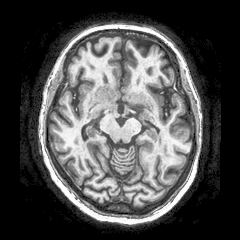
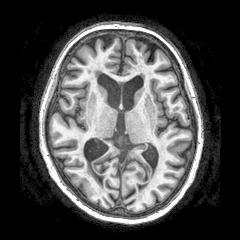
Last updata

diff --git a/code/PlottingFeatures.py b/code/PlottingFeatures.py
@@ -1,0 +1,103 @@
+# -*- coding: utf-8 -*-
+"""
+Created on Sun Oct 13 16:59:32 2019
+
+@author: 20171880
+"""
+import numpy as np
+import matplotlib.pyplot as plt
+import matplotlib.cm as cm
+from scipy import ndimage, stats
+import cv2
+import segmentation as seg
+
+image_number = 1; 
+slice_number = 1
+   # extracts features for [image_number]_[slice_number]_t1.tif and [image_number]_[slice_number]_t2.tif
+# Input:
+# image_number - Which subject (scalar)
+# slice_number - Which slice (scalar)
+# Output:
+# X           - N x k dataset, where N is the number of pixels and k is the total number of features
+# features    - k x 1 cell array describing each of the k features
+
+base_dir = '../data/dataset_brains/'
+
+t1 = plt.imread(base_dir + str(image_number) + '_' + str(slice_number) + '_t1.tif')
+
+n = t1.shape[0]
+features = ()
+
+t1f = t1.flatten().T.astype(float)
+t1f = t1f.reshape(-1, 1)
+
+t1_blurred_1 = ndimage.gaussian_filter(t1, sigma=3)
+t1_1 = t1_blurred_1.flatten().T
+t1_1 = t1_1.reshape(-1, 1)
+
+t1_blurred_2 = ndimage.gaussian_filter(t1, sigma=8)
+t1_2 = t1_blurred_2.flatten().T
+t1_2 = t1_2.reshape(-1, 1)
+
+#edges
+t1_LaPlacian = cv2.Laplacian(t1, cv2.CV_64F)
+t1_lapl = t1_LaPlacian.flatten().T
+t1_lapl = t1_lapl.reshape(-1,1)
+
+#Coordinate feature
+t1_coord,_ = seg.extract_coordinate_feature(t1)
+
+
+#use to remove noise from images, while preserving edges
+median = cv2.medianBlur(t1,5)
+t1_median = median.flatten().flatten().T
+t1_median = t1_median.reshape(-1,1)
+
+#opening
+kernel1 = np.array([[0,1,0], [1, 1, 1], [0,1,0]], np.uint8)#np.ones((3,3), np.uint8)
+opening = cv2.morphologyEx(t1, cv2.MORPH_OPEN, kernel1)
+t1_opening = opening.flatten().flatten().T
+t1_opening = t1_opening.reshape(-1,1)
+
+#closing
+kernel2 =  np.ones((4,4), np.uint8)
+closing = cv2.morphologyEx(t1, cv2.MORPH_CLOSE, kernel2)
+t1_closing = closing.flatten().flatten().T
+t1_closing = closing.reshape(-1,1)
+
+#morphological gradient
+kernel3 =   np.ones((3,3), np.uint8)
+gradient = cv2.morphologyEx(t1, cv2.MORPH_GRADIENT, kernel3)
+t1_grad = gradient.flatten().flatten().T
+t1_grad = t1_grad.reshape(-1,1)
+
+t1_cv = cv2.imread(base_dir + str(image_number) + '_' + str(slice_number) + '_t1.tif', 0)
+equ = cv2.equalizeHist(t1_cv)
+cv2.imwrite('equ.png',equ)
+t1_equ = plt.imread('equ.png')
+t1_equ = t1_equ.flatten().T
+t1_equ = t1_equ.reshape(-1,1)
+
+
+#Add features to the list of features
+features += ('T1 intensity',)
+features += ('T1 gauss 5',)
+features += ("T1 equalized histogram", )
+features += ('T1 gauss 15',)
+features += ("T1 Coordinate feature",)
+features += ("T1 median",)
+features += ("T1 opening",)
+features += ("T1 closing",)
+features += ("T1 morphological gradient",)
+features += ("T1 Laplacian",)
+
+X = np.concatenate((t1f,t1_equ,  t1_1, t1_1,t1_coord, t1_median, t1_opening, t1_closing, t1_grad, t1_lapl), axis=1)
+
+fig = plt.figure(figsize = (15,20))
+ax1 = fig.add_subplot(131)
+ax1.imshow(t1)
+ax1.set_title('Original image')
+
+ax2 = fig.add_subplot(132)
+ax2.imshow(closing)
+ax2.set_title('closing')

diff --git a/code/segmentation_project.py b/code/segmentation_project.py
@@ -31,7 +31,7 @@ def segmentation_mymethod(train_data, train_labels , test_data,num_iter = 100,mu
     #TODO: Implement your method here
     
     #define your features
-    features = [2,4] #change this if needed
+    features = [1, 4] #change this if needed
     
     #select the data using features
     train_data_matrix = train_data[:,features,:]
@@ -116,7 +116,7 @@ def segmentation_demo():
     all_dice[:] = np.nan
 
     all_subjects = np.arange(5) #list of all subjects [0, 1, 2, 3, 4]
-    train_slice = 1
+    train_slice = 2
     task = 'tissue'
     all_data_matrix = np.empty([train_data.shape[0],train_data.shape[1],num_images])
     all_labels_matrix = np.empty([train_labels.size,num_images])
@@ -171,7 +171,7 @@ def segmentation_demo():
 
         #OUR METHOD
         #predict the labels using our method
-        predicted_labels_mymethod = segmentation_mymethod(train_data_matrix,train_labels_matrix,test_data,num_iter = 5,mu = 0.1)
+        predicted_labels_mymethod = segmentation_mymethod(train_data_matrix,train_labels_matrix,test_data,num_iter = 100,mu = 0.1)
         
         #determine error and dice (multiclass, since there are more classes)
         all_errors[i,2] = util.classification_error(test_labels, predicted_labels_mymethod)
